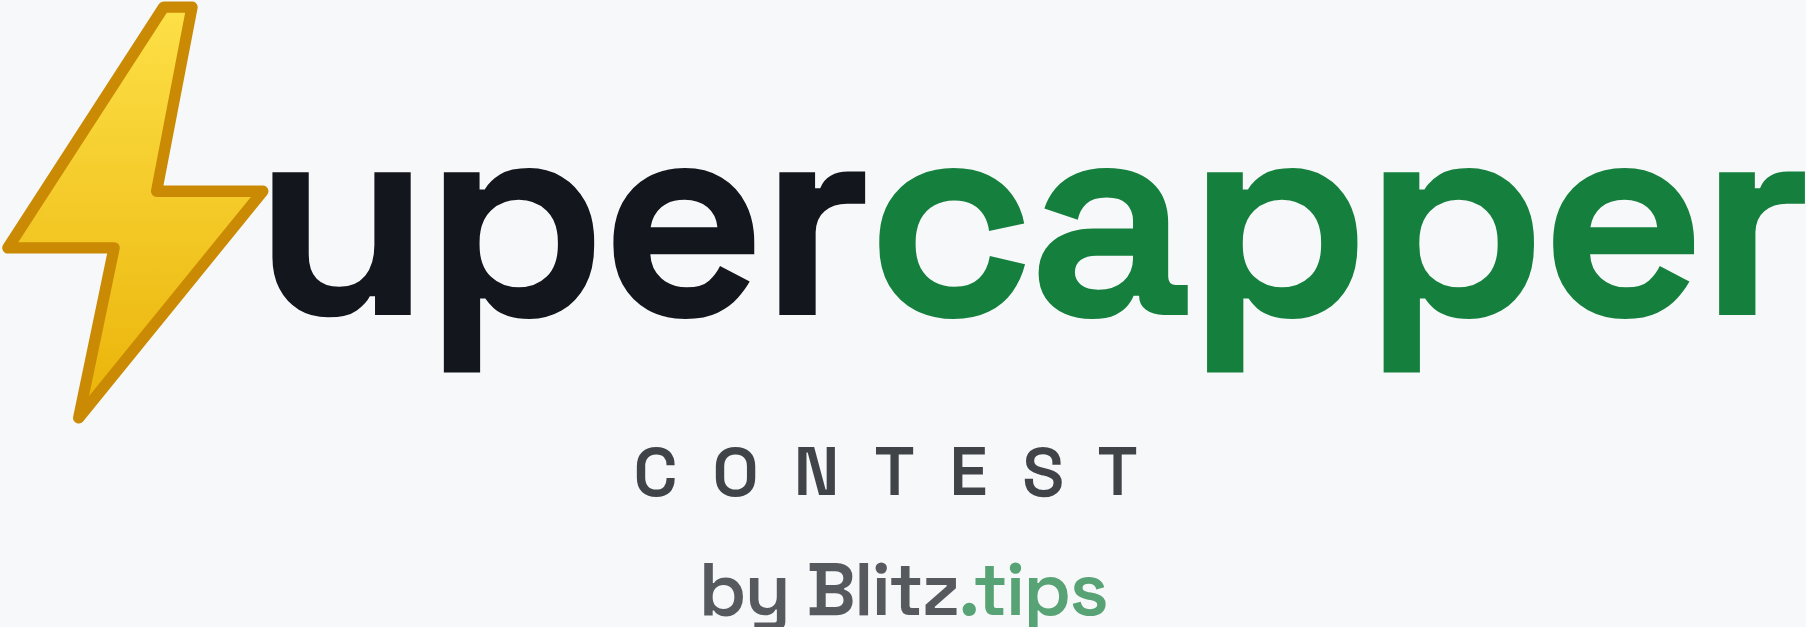
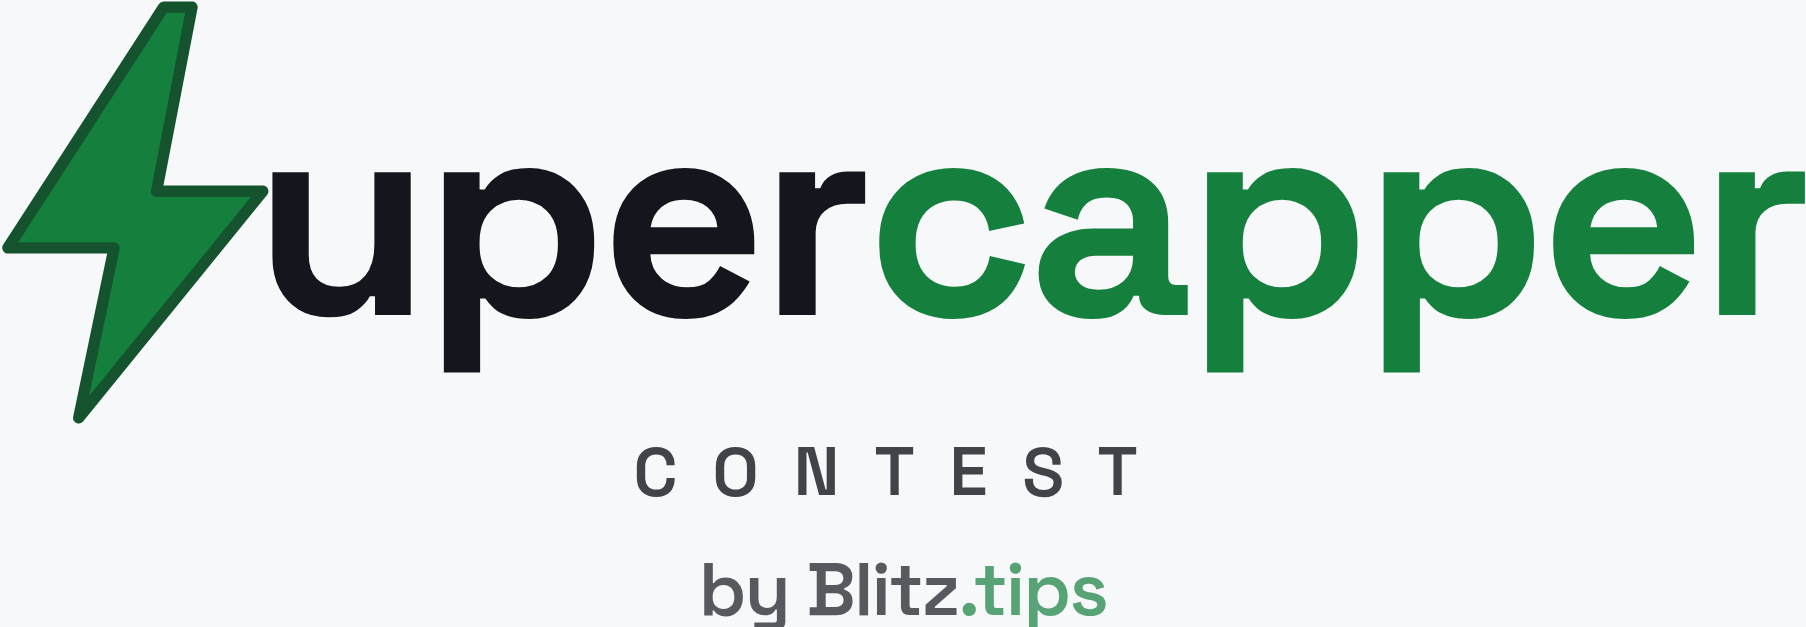
Switch the Supercapper mark to the dual-tone green treatment
Option A: the bolt drops the gold gradient and joins "capper" in the
brand green, leaving the mark on two colors instead of three. Gold is no
longer part of the contest identity, so it isn't a fourth color to keep
consistent across the site.

The accent green is tuned for contrast on white and goes muddy on
charcoal, so the component takes an `onDark` prop that steps it up to
green-500. The promo banner — the one placement on a dark surface — uses
it; without that the bolt would have gone from bright gold to near
invisible there.

Re-exported the four public/ lockup PNGs in the new colors.

Claude-Session: https://claude.ai/code/session_016YpNsra3VmRDhQw8QQMKUK

Changed region(s): [[0.0, 0.0, 0.155, 0.6667]]

diff --git a/src/components/contest/supercapper-logo.tsx b/src/components/contest/supercapper-logo.tsx
@@ -1,7 +1,10 @@
 import { cn } from "@/lib/utils";
 
-// The Supercapper wordmark: the leading "S" is the Blitz.tips gold thunder bolt
-// (bolt only — no green square), followed by "upercapper" in the display font.
+// The Supercapper wordmark: the leading "S" is a thunder bolt, followed by
+// "upercapper" in the display font. Two colors only — the bolt and "capper"
+// share the brand green, "uper" and the byline stay neutral. Pass `onDark` on a
+// dark surface: the accent green is tuned for contrast on white and goes muddy
+// on charcoal, so it steps up to green-500 there.
 // A sub-line can sit beneath: `withContest` for "contest", `withByline` for
 // "by Blitz.tips" — the attribution lockup, for anywhere the contest appears
 // away from the site's own chrome (social, email, partner placements). Both
@@ -12,11 +15,15 @@ export function SupercapperLogo({
   className,
   withContest = false,
   withByline = false,
+  onDark = false,
 }: {
   className?: string;
   withContest?: boolean;
   withByline?: boolean;
+  /** Lightens the green for placement on a dark background. */
+  onDark?: boolean;
 }) {
+  const accent = onDark ? "text-[#22c55e]" : "text-accent";
   const label = [
     "Supercapper",
     withContest ? " Contest" : "",
@@ -32,23 +39,24 @@ export function SupercapperLogo({
       <span className="inline-flex items-center font-display font-extrabold tracking-tight">
         {/* viewBox cropped tight to the bolt's bounds (no transparent padding)
             so it can sit flush against the "u". */}
-        <svg viewBox="10.5 5.5 19 30.5" className="-mr-[0.06em] h-[1.5em] w-[0.94em]" fill="none" aria-hidden>
-          <defs>
-            <linearGradient id="sc-bolt" x1="0" y1="0" x2="0" y2="1">
-              <stop offset="0%" stopColor="#fde047" />
-              <stop offset="100%" stopColor="#eab308" />
-            </linearGradient>
-          </defs>
+        <svg
+          viewBox="10.5 5.5 19 30.5"
+          className={cn("-mr-[0.06em] h-[1.5em] w-[0.94em]", accent)}
+          fill="none"
+          aria-hidden
+        >
+          {/* stroke is green-900: keeps the bolt's edge readable against both
+              the word and a dark surface, without a third brand color. */}
           <path
             d="M22 6 L11 23 H18.5 L16 35 L29 19 H21.5 L24 6 Z"
-            fill="url(#sc-bolt)"
-            stroke="#ca8a04"
+            fill="currentColor"
+            stroke="#14532d"
             strokeWidth="0.8"
             strokeLinejoin="round"
           />
         </svg>
         <span>uper</span>
-        <span className="text-accent">capper</span>
+        <span className={accent}>capper</span>
       </span>
       {withContest && (
         <span
@@ -69,7 +77,7 @@ export function SupercapperLogo({
             withContest ? "mt-[0.6em]" : "mt-[0.35em]"
           )}
         >
-          by Blitz<span className="text-accent">.tips</span>
+          by Blitz<span className={accent}>.tips</span>
         </span>
       )}
     </span>

diff --git a/src/components/contest/contest-promo-banner.tsx b/src/components/contest/contest-promo-banner.tsx
@@ -32,7 +32,7 @@ export async function ContestPromoBanner({ className }: { className?: string }) 
             <Trophy className="h-3.5 w-3.5" /> {phase === "live" ? "Live now" : "Now open"}
           </span>
           <div className="mt-3">
-            <SupercapperLogo withContest className="text-2xl sm:text-3xl" />
+            <SupercapperLogo withContest onDark className="text-2xl sm:text-3xl" />
           </div>
           <p className="mt-2 text-sm text-white/70">
             Post your picks and compete for the{" "}
